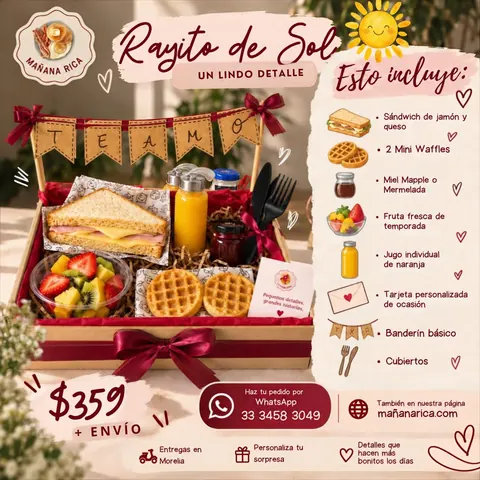
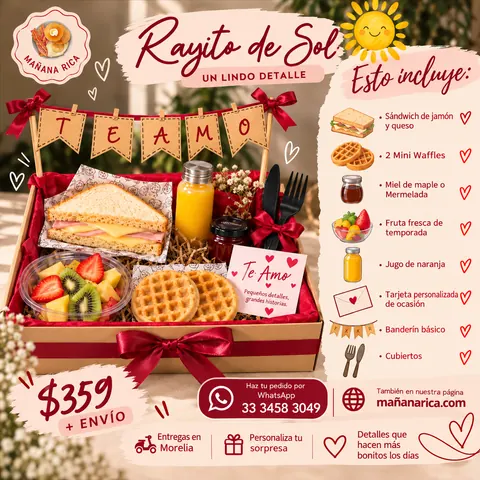
Agregando imagenes, modificando precios y contenido de los paquetes

diff --git a/app/page.tsx b/app/page.tsx
@@ -53,7 +53,7 @@ const packages: Package[] = [
       "🧇 2 mini waffles",
       "🍯 Miel maple o mermelada",
       "🍓 Fruta fresca de temporada",
-      "🍊 Jugo individual de naranja",
+      "🍊 Jugo de naranja",
       "💌 Tarjeta personalizada de ocasión",
       "🎏 Banderín básico",
       "🍴 Cubiertos",
@@ -74,7 +74,7 @@ const packages: Package[] = [
       "🥣 Yogurt con fruta y granola",
       "🍪 2 galletas integrales",
       "🍊 Jugo de naranja",
-      "☕ Café frío o leche de sabor",
+      "📷 Foto tipo polaroid",
       "💌 Tarjeta personalizada de ocasión",
       "🎏 Banderín básico",
       "🍴 Cubiertos",
@@ -95,10 +95,10 @@ const packages: Package[] = [
       "🍯 Miel maple o mermelada",
       "🥣 Yogurt con fruta y granola",
       "🍪 3 galletas integrales",
-      "🍊 Jugo de naranja grande",
+      "🍊 Jugo de naranja",
       "☕ Café frío o leche de sabor",
-      "💌 Tarjeta personalizada de ocasión",
       "📷 Foto tipo polaroid",
+      "💌 Tarjeta personalizada de ocasión",
       "🎏 Banderín básico",
       "🍴 Cubiertos",
     ],
@@ -112,18 +112,18 @@ const packages: Package[] = [
     image: "/img/apapacho-900.webp",
     description: "Desayuno, pastel y recuerdos en una sola charola.",
     includes: [
-      "🥐 Croissant especial de pollo y queso",
+      "🥐 Croissant de jamón y queso",
       "🧇 3 mini waffles",
       "🍓 Fruta para acompañar los waffles",
       "🍯 Miel maple o mermelada",
       "🥣 Yogurt con fruta y granola",
       "🍪 3 galletas integrales",
-      "🍊 Jugo de naranja grande",
-      "🍫 Muffin de chocolate o mini pastel",
+      "🍊 Jugo de naranja",
+      "🍫 Muffin de chocolate",
       "☕ Café frío o leche de sabor",
       "📷 3 fotos tipo polaroid",
       "💌 Tarjeta personalizada de ocasión",
-      "🎏 Banderín personalizado",
+      "🎏 Banderín especial de fotografías",
       "🍴 Cubiertos",
     ],
     badge: "Especial",
@@ -132,10 +132,10 @@ const packages: Package[] = [
 
 const extras: Extra[] = [
   { id: "photos", name: "Tira de 4 fotos", price: 49, icon: "▣" },
-  { id: "cake-slice", name: "Rebanada de pastel", price: 69, icon: "◢", group: "cake" },
-  { id: "mini-cake", name: "Mini pastel para 1–2 personas", price: 160, icon: "⌒", group: "cake" },
-  { id: "sunflower", name: "Un girasol", price: 69, icon: "✹", group: "flowers" },
-  { id: "gerberas", name: "Mini ramo de 2–3 gerberas", price: 69, icon: "✿", group: "flowers" },
+  { id: "cake-slice", name: "Rebanada de pastel", price: 99, icon: "◢", group: "cake" },
+  { id: "mini-cake", name: "Mini pastel para 1–2 personas", price: 299, icon: "⌒", group: "cake" },
+  { id: "sunflower", name: "Mini ramo de un girasol", price: 99, icon: "✹", group: "flowers" },
+  { id: "gerberas", name: "Mini ramo de 2 gerberas", price: 149, icon: "✿", group: "flowers" },
 ];
 
 // Número de WhatsApp con código de país, sin espacios ni signos. Ej. 521234567890.
@@ -1329,8 +1329,8 @@ export default function Home() {
         tabIndex={showBackToTop && !drawerOpen ? 0 : -1}
         aria-hidden={!showBackToTop || drawerOpen}
         className={`fixed z-40 grid h-11 w-11 place-items-center rounded-full border border-white/20 bg-brand text-on-brand shadow-[0_10px_25px_rgba(0,0,0,0.25)] transition-all duration-300 hover:-translate-y-0.5 hover:bg-brand-hover md:h-12 md:w-12 ${showFloatingButton
-            ? "bottom-[84px] right-[22px] md:bottom-[138px] md:right-[54px]"
-            : "bottom-5 right-5 md:bottom-8 md:right-8"
+          ? "bottom-[84px] right-[22px] md:bottom-[138px] md:right-[54px]"
+          : "bottom-5 right-5 md:bottom-8 md:right-8"
           } ${showBackToTop && !drawerOpen ? "opacity-100" : "pointer-events-none translate-y-3 opacity-0"}`}
       >
         <ArrowUpIcon />
